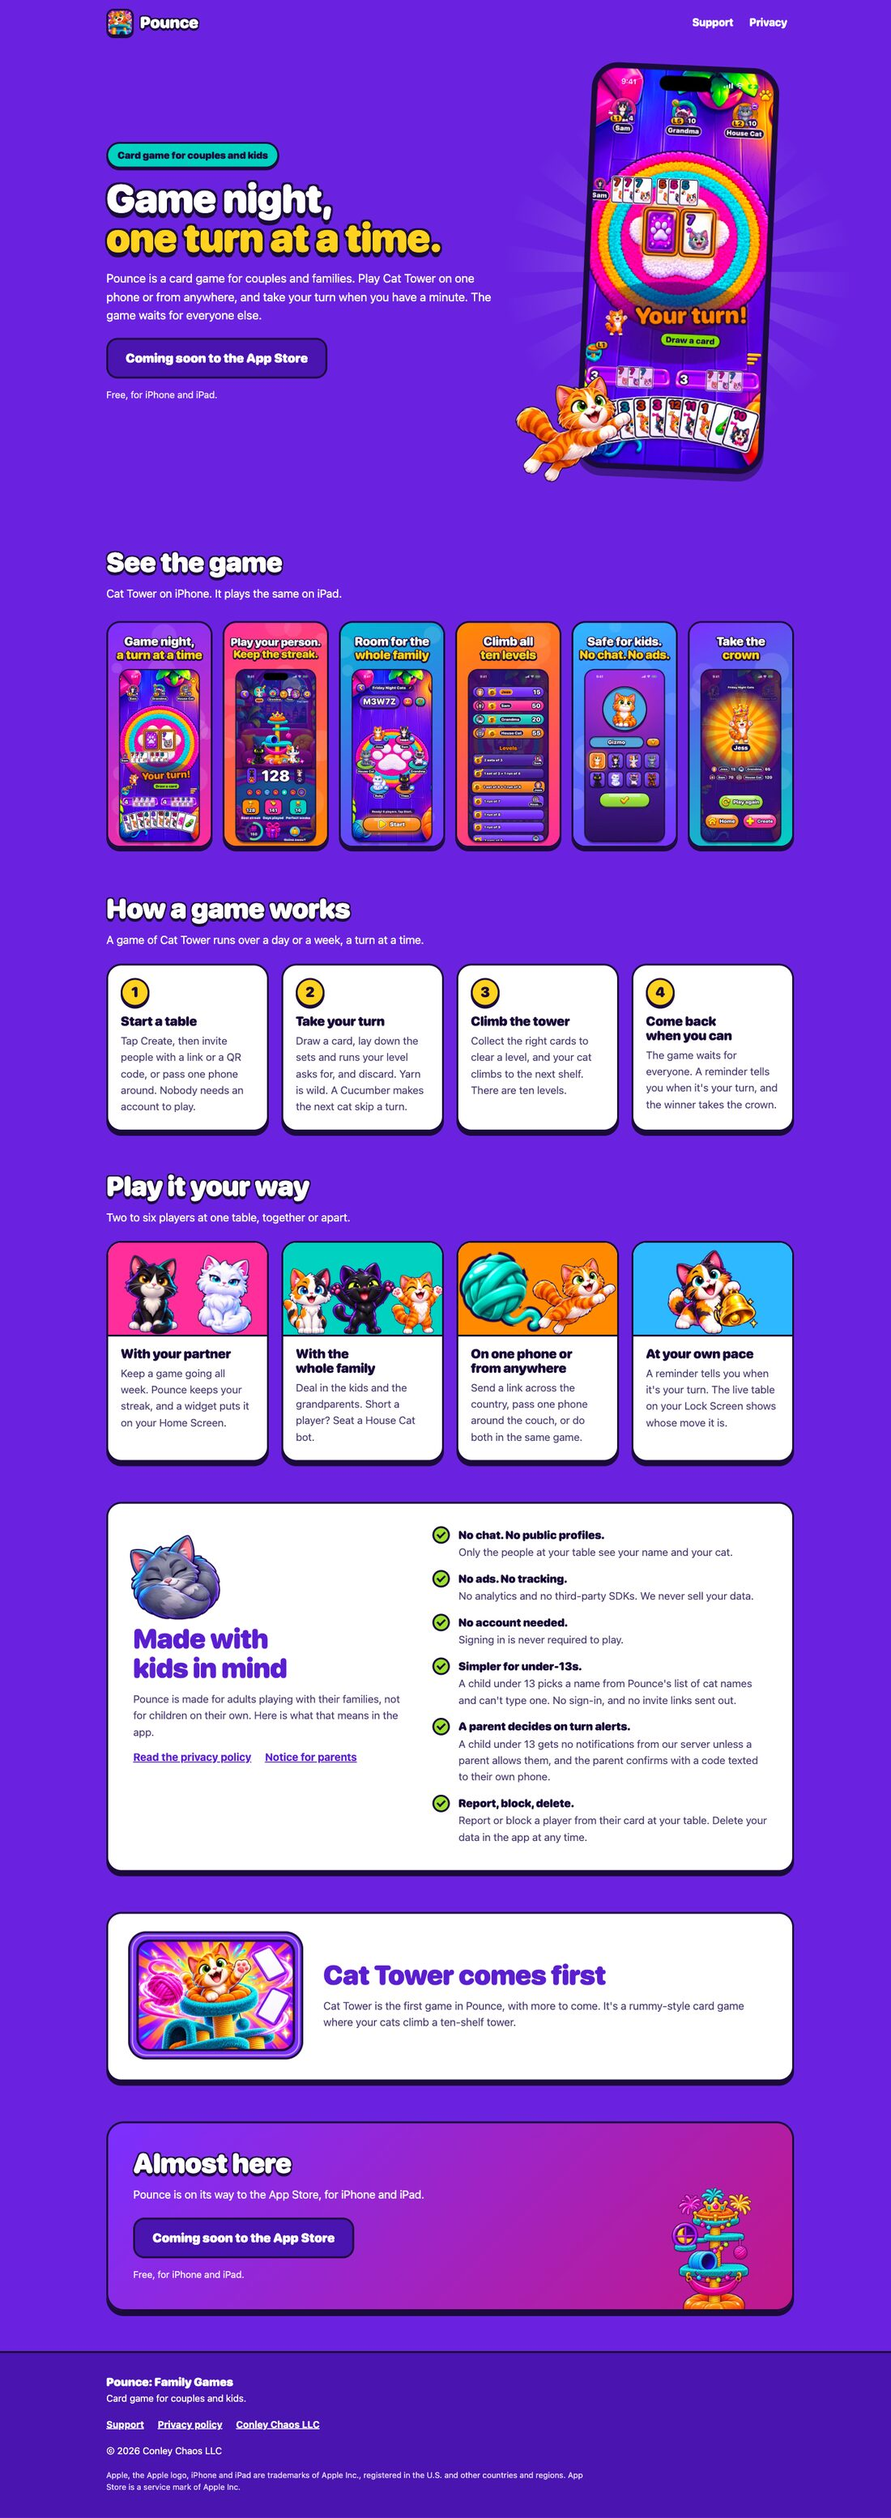
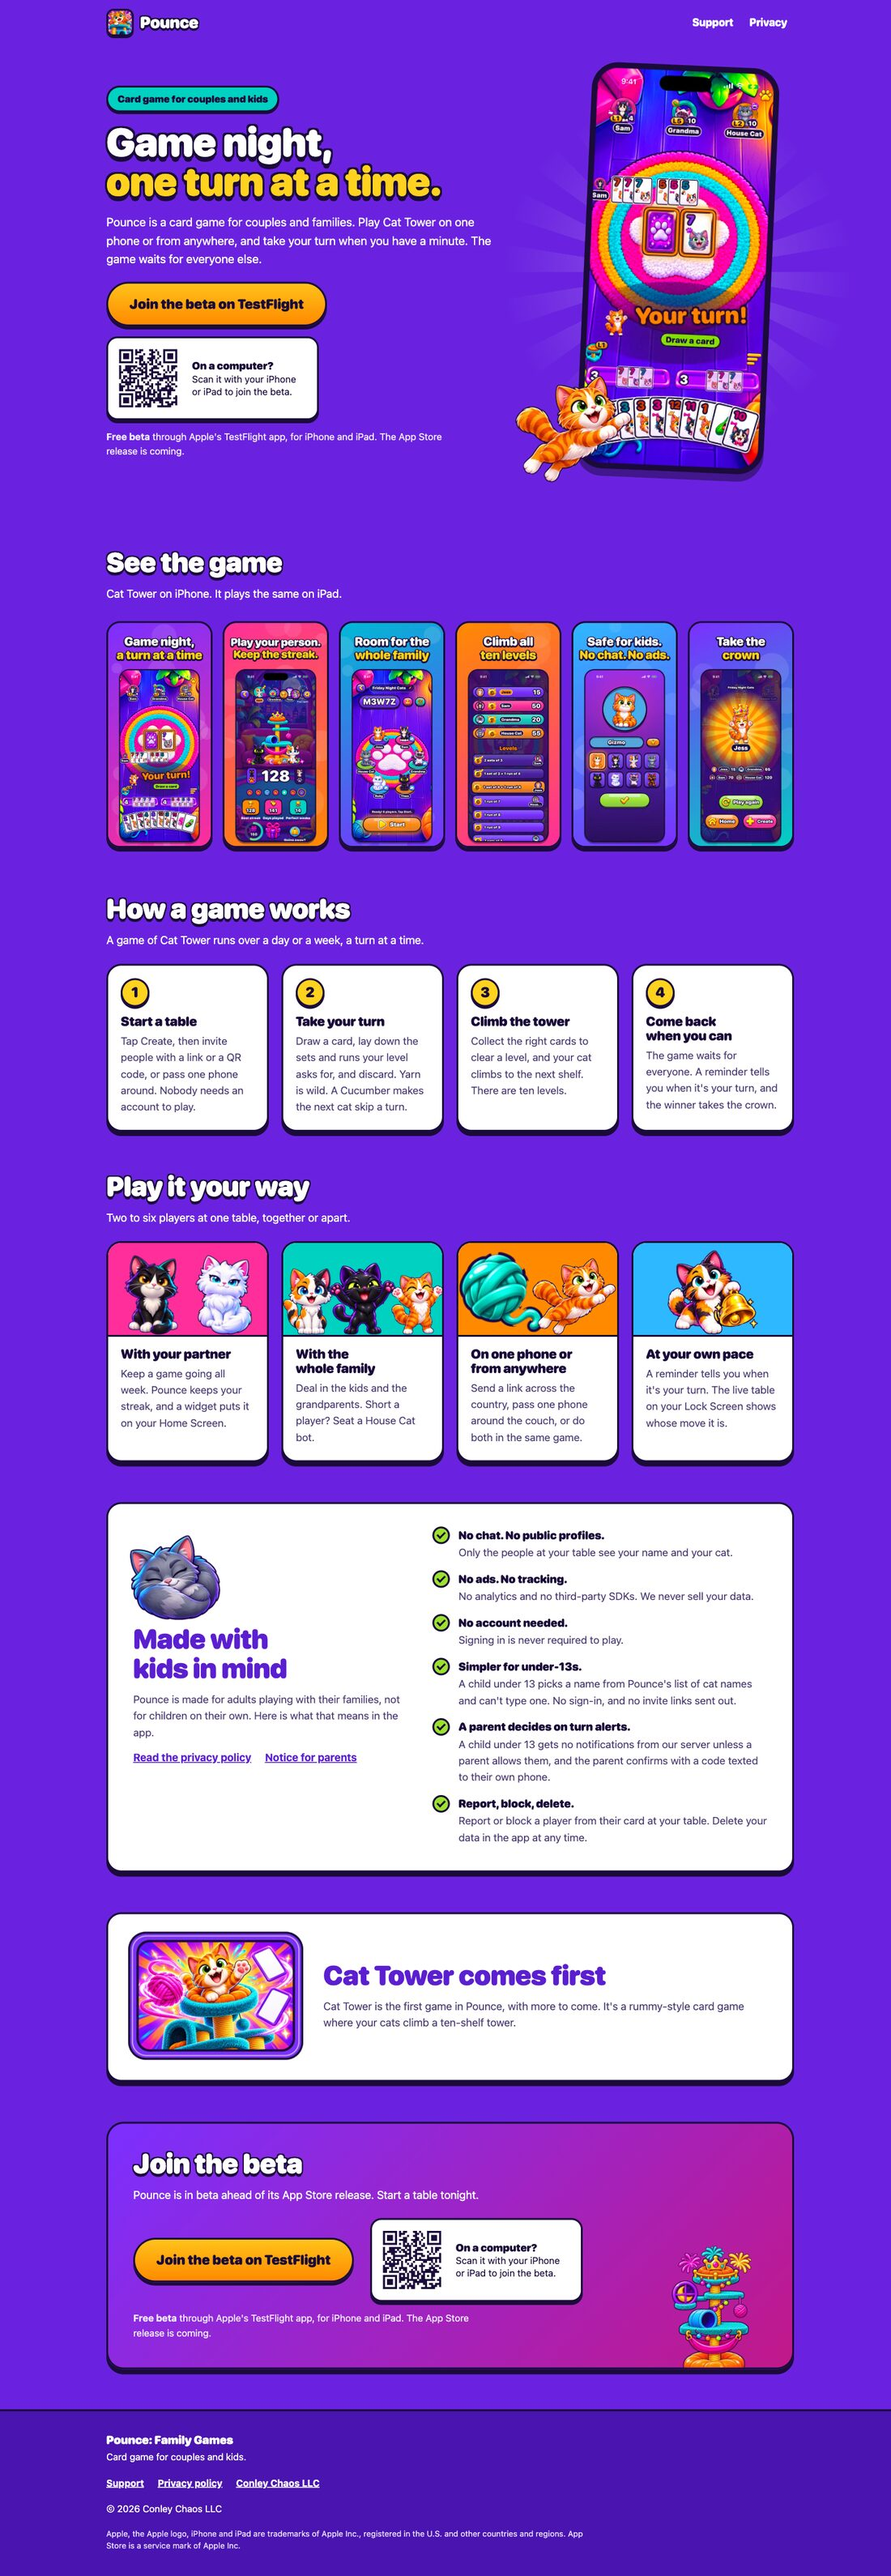
feat(site): offer the TestFlight beta today
Sets TESTFLIGHT_URL to the app's public beta link, so on deploy the landing
page shows "Join the beta on TestFlight" with the desktop QR code, /get
redirects there, and the invite pages' "Get the app" goes there too.
APP_STORE_URL stays empty; setting it later switches everything to the App
Store with no other change.

The beta state gets one short line under the button (free, through Apple's
TestFlight app, App Store release coming). On the invite pages a TestFlight
link gets a one-line note under "Get the app", so nobody is surprised to land
on a beta page; an App Store link has no note.

diff --git a/apps/play-api/src/http/home.ts b/apps/play-api/src/http/home.ts
@@ -84,9 +84,9 @@ ${qr("Point your iPhone or iPad camera at this code.")}
   if (state.kind === "beta") {
     return `<div class="get">
 <a class="btn" href="${escapeHtml(state.url)}">Join the beta on TestFlight</a>
-${qr("Point your iPhone or iPad camera at this code to join the beta.")}
+${qr("Scan it with your iPhone or iPad to join the beta.")}
 </div>
-<p class="fine"><strong>This is a beta.</strong> Pounce is coming soon to the App Store. Until then it installs through TestFlight, Apple's app for trying apps early. Free, for iPhone and iPad.</p>`;
+<p class="fine"><strong>Free beta</strong> through Apple's TestFlight app, for iPhone and iPad. The App Store release is coming.</p>`;
   }
   return `<div class="get">
 <p class="soon">Coming soon to the App Store</p>
@@ -115,6 +115,7 @@ h1 span{display:block;color:var(--sun);text-wrap:balance}
 .btn:active{transform:translateY(3px);box-shadow:0 2px 0 var(--ink)}
 .soon{margin:0;padding:12px 20px;border:3px solid var(--ink);border-radius:18px;background:var(--deep);color:#fff;font-family:var(--round);font-size:1.1rem;font-weight:900}
 @media (min-width:420px){.btn,.soon{padding:14px 28px;font-size:1.25rem}}
+@media (min-width:900px){.btn{padding:16px 34px;font-size:1.35rem}}
 .qr{display:none;align-items:center;gap:14px;max-width:340px;padding:8px 18px 8px 8px;border:3px solid var(--ink);border-radius:18px;background:#fff;box-shadow:0 5px 0 var(--ink);color:var(--ink);font-size:.95rem;line-height:1.3}
 .qr svg{flex:none;display:block;border-radius:8px}
 .qr p{margin:0}
@@ -218,7 +219,7 @@ function head(state: InstallState, origin: string): string {
 
 const LAST: Record<InstallState["kind"], { title: string; line: string }> = {
   store: { title: "Get Pounce", line: "Start a table tonight. The first turn takes a minute." },
-  beta: { title: "Try the beta", line: "Pounce is in beta before it reaches the App Store. Start a table tonight." },
+  beta: { title: "Join the beta", line: "Pounce is in beta ahead of its App Store release. Start a table tonight." },
   soon: { title: "Almost here", line: "Pounce is on its way to the App Store, for iPhone and iPad." },
 };
 

diff --git a/apps/play-api/src/http/links.ts b/apps/play-api/src/http/links.ts
@@ -24,6 +24,7 @@ const STYLE = css(`
 .card .code{margin:0 auto 10px;font-family:var(--round);font-size:3.25rem;font-weight:900;letter-spacing:.14em;line-height:1.1;color:var(--text)}
 .card a{display:inline-block;padding:13px 28px;border:3px solid var(--ink);border-radius:999px;background:linear-gradient(#FFC21A,#FF8A00);box-shadow:0 5px 0 var(--ink);color:var(--ink);font-family:var(--round);font-size:1.15rem;font-weight:900;text-decoration:none}
 .card a:active{transform:translateY(3px);box-shadow:0 2px 0 var(--ink)}
+.card .note{margin:18px auto 0;color:var(--muted);font-size:.92rem}
 @media (prefers-color-scheme:dark){.cat{color:#fff}.cat circle{fill:var(--ink)}}
 `);
 
@@ -56,10 +57,15 @@ function banner(install: Install, pageUrl: string): string {
   return id ? `<meta name="apple-itunes-app" content="app-id=${id}, app-argument=${escapeHtml(pageUrl)}">\n` : "";
 }
 
-/** The install button: the App Store when it's set, else TestFlight, else nothing. */
+/**
+ * The install button: the App Store when it's set, else TestFlight, else nothing. A TestFlight
+ * link gets one line under it, so nobody is surprised to land on a beta page.
+ */
 function getTheApp(install: Install): string {
-  const url = https(install.appStoreUrl) ?? https(install.testflightUrl);
-  return url ? `<a href="${escapeHtml(url)}">Get the app</a>` : "";
+  const store = https(install.appStoreUrl);
+  if (store) return `<a href="${escapeHtml(store)}">Get the app</a>`;
+  const beta = https(install.testflightUrl);
+  return beta ? `<a href="${escapeHtml(beta)}">Get the app</a>\n<p class="note">Pounce is in beta. This opens TestFlight, Apple's app for trying apps early.</p>` : "";
 }
 
 const NOINDEX = { "cache-control": "no-store", "referrer-policy": "no-referrer", "x-robots-tag": "noindex" };

diff --git a/apps/play-api/src/http/links.test.ts b/apps/play-api/src/http/links.test.ts
@@ -178,6 +178,23 @@ describe("the App Store link and Smart App Banner", () => {
   });
 });
 
+describe("the beta note under Get the app", () => {
+  const NOTE = "Pounce is in beta. This opens TestFlight, Apple's app for trying apps early.";
+
+  test("a TestFlight link says it is a beta, on the room, pounce and expired pages", async () => {
+    for (const res of [sharePage("BCDFG", TF, ORIGIN), pouncePage({ name: "Mia", cat: 2 }, "A".repeat(22), TF, ORIGIN), deadLinkPage(TF)]) {
+      expect(await res.text()).toContain(`<a href="${TESTFLIGHT}">Get the app</a>\n<p class="note">${NOTE}</p>`);
+    }
+  });
+
+  test("an App Store link, or no link, has no such note", async () => {
+    for (const install of [NONE, { appStoreUrl: APP_STORE, testflightUrl: TESTFLIGHT }]) {
+      expect(await sharePage("BCDFG", install, ORIGIN).text()).not.toContain("beta");
+      expect(await deadLinkPage(install).text()).not.toContain("beta");
+    }
+  });
+});
+
 describe("ogImage", () => {
   test("is a cacheable jpeg", async () => {
     const res = ogImage();

diff --git a/apps/play-api/src/http/home.test.ts b/apps/play-api/src/http/home.test.ts
@@ -91,7 +91,9 @@ describe("homePage", () => {
   test("TestFlight only: a labelled beta button at the top and the bottom, and the QR code for a computer", async () => {
     const page = await html({ testflightUrl: TESTFLIGHT });
     expect(page.match(new RegExp(`<a class="btn" href="${TESTFLIGHT}">Join the beta on TestFlight</a>`, "g"))).toHaveLength(2);
-    expect(page).toContain("<strong>This is a beta.</strong> Pounce is coming soon to the App Store.");
+    // One short line: it is free, it is a beta, it runs through TestFlight, and the App Store release is coming.
+    expect(page.match(/<p class="fine"><strong>Free beta<\/strong> through Apple's TestFlight app, for iPhone and iPad\. The App Store release is coming\.<\/p>/g)).toHaveLength(2);
+    expect(page).toContain('<h2 id="get">Join the beta</h2>');
     expect(page.match(/<div class="qr">/g)).toHaveLength(2);
     expect(page).not.toContain('class="badge"');
     expect(page).not.toContain("Download on the App Store");

diff --git a/apps/play-api/src/http/site.ts b/apps/play-api/src/http/site.ts
@@ -114,7 +114,7 @@ Pounce is free. It has no chat, no ads, no analytics and no tracking, and nobody
 - [Home](${origin}/): what Pounce is, screenshots, and how to install it
 - [Support](${origin}/support): how to start a game, invite people, set reminders, report or block a player, and delete your data
 - [Privacy policy](${origin}/privacy): what the app and its server keep, for how long, and the notice for parents
-- [Get the app](${origin}/get): goes to the App Store listing once Pounce is available there
+- [Get the app](${origin}/get): goes to the App Store listing, or to the TestFlight beta before the App Store release
 `;
   return new Response(text, { headers: { "content-type": "text/plain; charset=utf-8", "cache-control": CACHE } });
 }

diff --git a/apps/play-api/tests/site-assets.test.ts b/apps/play-api/tests/site-assets.test.ts
@@ -105,9 +105,9 @@ describe("the static assets config", () => {
     expect(readFileSync(`${PUBLIC}/_headers`, "utf8")).toContain("/static/*\n  Cache-Control: public, max-age=31536000, immutable");
   });
 
-  test("the install settings are left to the owner: APP_STORE_URL is listed, TESTFLIGHT_URL is not", () => {
-    expect(config.vars).toHaveProperty("APP_STORE_URL");
-    expect(config.vars).not.toHaveProperty("TESTFLIGHT_URL");
+  test("the install settings: the App Store link is empty until launch, so the site offers the TestFlight beta", () => {
+    expect(config.vars.APP_STORE_URL).toBe("");
+    expect(config.vars.TESTFLIGHT_URL).toMatch(/^https:\/\/testflight\.apple\.com\/join\/[A-Za-z0-9]{8}$/);
   });
 });
 

diff --git a/apps/play-api/src/env.ts b/apps/play-api/src/env.ts
@@ -84,7 +84,10 @@ export interface Env {
   TWILIO_VERIFY_SERVICE_SID?: string;
   /** HMAC key for device tokens. A secret; absent until configured. */
   TOKEN_SECRET?: string;
-  /** Public TestFlight link for the share page. Optional; used only while `APP_STORE_URL` is empty. */
+  /**
+   * The public TestFlight beta (wrangler.jsonc). Used only while `APP_STORE_URL` is empty: the
+   * landing page's beta button, `/get`, and the invite pages' "Get the app". Optional.
+   */
   TESTFLIGHT_URL?: string;
   /**
    * The App Store listing, `https://apps.apple.com/app/id<number>` (wrangler.jsonc). The invite

diff --git a/README.md b/README.md
@@ -50,8 +50,8 @@ How the landing page offers the app follows two settings, with no code change:
 
 | Setting | Where | Effect |
 | --- | --- | --- |
-| `APP_STORE_URL` | `vars` in `apps/play-api/wrangler.jsonc` | Set to `https://apps.apple.com/app/id<number>` once the app is on the App Store: the page shows Apple's "Download on the App Store" badge, Safari's Smart App Banner, and a QR code on desktop. |
-| `TESTFLIGHT_URL` | a `vars` entry or a Worker variable | Used only while `APP_STORE_URL` is empty: the page shows "Join the beta on TestFlight" and the QR code. |
+| `APP_STORE_URL` | `vars` in `apps/play-api/wrangler.jsonc`, empty today | Set to `https://apps.apple.com/app/id<number>` once the app is on the App Store: the page shows Apple's "Download on the App Store" badge, Safari's Smart App Banner, and a QR code on desktop. |
+| `TESTFLIGHT_URL` | the same `vars`, set to the public beta link | Used only while `APP_STORE_URL` is empty (today): the page shows "Join the beta on TestFlight" and the QR code. |
 | neither | | The page says "Coming soon to the App Store" and has no install button. |
 
 `/get` redirects to whichever link is set (or home), so other sites and the QR code can point at
